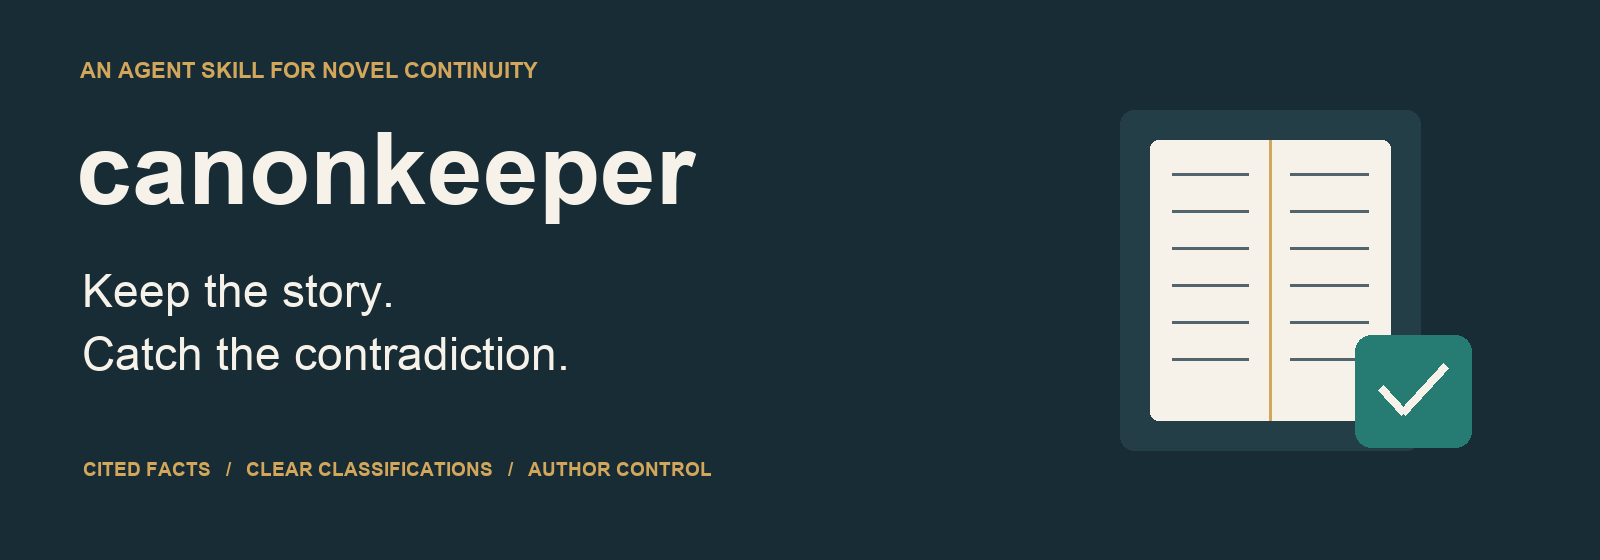
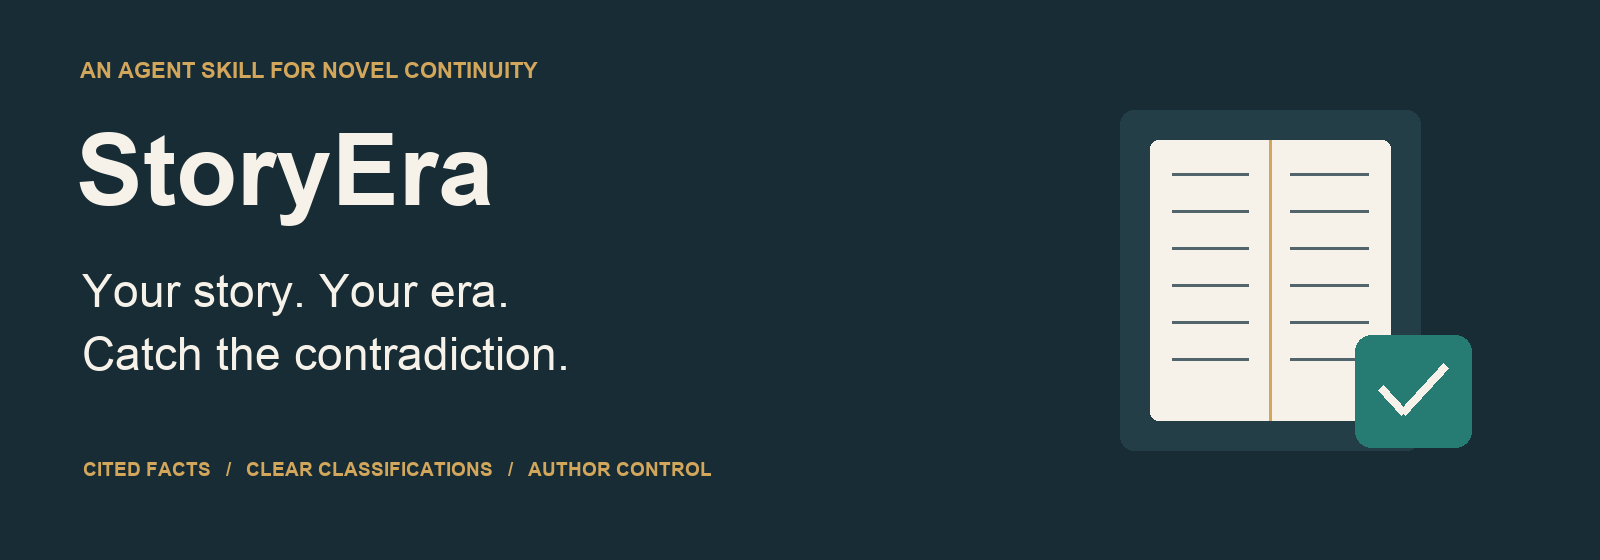
Rename Canonkeeper to StoryEra across skill and documentation
Preserve original behavioral evaluation records and document the installation migration.

Changed region(s): [[0.0312, 0.2125, 0.4375, 0.425], [0.0312, 0.4857, 0.3125, 0.5768]]

diff --git a/tests/test_reports.py b/tests/test_reports.py
@@ -112,15 +112,15 @@ class PackageTests(unittest.TestCase):
             self.assertEqual(a.read_bytes(),b.read_bytes())
             with zipfile.ZipFile(a) as archive:
                 names=archive.namelist()
-                self.assertIn('canonkeeper/SKILL.md',names); self.assertIn('canonkeeper/LICENSE',names)
-                self.assertTrue(all(n.startswith('canonkeeper/') for n in names))
+                self.assertIn('storyera/SKILL.md',names); self.assertIn('storyera/LICENSE',names)
+                self.assertTrue(all(n.startswith('storyera/') for n in names))
                 self.assertFalse(any('yakuza' in n or 'evals' in n for n in names))
     def test_skill_frontmatter_and_references(self):
-        text=(ROOT/'skills/canonkeeper/SKILL.md').read_text()
-        self.assertTrue(text.startswith('---\nname: canonkeeper\n')); self.assertNotIn('[TODO:',text)
+        text=(ROOT/'skills/storyera/SKILL.md').read_text()
+        self.assertTrue(text.startswith('---\nname: storyera\n')); self.assertNotIn('[TODO:',text)
         for target in re.findall(r'\]\((references/[^)]+)\)',text):
-            self.assertTrue((ROOT/'skills/canonkeeper'/target).is_file())
-        self.assertEqual((ROOT/'skills/canonkeeper/LICENSE').read_text().strip(),(ROOT/'LICENSE').read_text().split('Scope exception:')[0].strip())
+            self.assertTrue((ROOT/'skills/storyera'/target).is_file())
+        self.assertEqual((ROOT/'skills/storyera/LICENSE').read_text().strip(),(ROOT/'LICENSE').read_text().split('Scope exception:')[0].strip())
     def test_documentation_local_links(self):
         for path in ROOT.rglob('*.md'):
             text=re.sub(r'```.*?```','',path.read_text(),flags=re.S)

diff --git a/scripts/render_docs.py b/scripts/render_docs.py
@@ -44,10 +44,10 @@ class Canvas:
 
 
 def render():
-    c=Canvas('banner',560,'Canonkeeper: continuity notes with receipts',INK)
+    c=Canvas('banner',560,'StoryEra: continuity notes with receipts',INK)
     c.text(80,62,'AN AGENT SKILL FOR NOVEL CONTINUITY',22,GOLD,True)
-    c.text(76,132,'canonkeeper',100,PAPER,True)
-    c.text(82,274,'Keep the story.',46,PAPER)
+    c.text(76,132,'StoryEra',100,PAPER,True)
+    c.text(82,274,'Your story. Your era.',46,PAPER)
     c.text(82,336,'Catch the contradiction.',46,PAPER)
     c.text(83,462,'CITED FACTS   /   CLEAR CLASSIFICATIONS   /   AUTHOR CONTROL',19,GOLD,True)
     # A book and a connected ledger, drawn as original graphics.
@@ -69,7 +69,7 @@ def render():
         c.text(x+30,y+25,num,22,color,True); c.text(x+87,y+22,title,32,bold=True)
         c.text(x+30,y+82,a,26,MUTED);c.text(x+30,y+126,b,25,MUTED)
     c.save()
-    c=Canvas('workflow',470,'The Canonkeeper audit workflow')
+    c=Canvas('workflow',470,'The StoryEra audit workflow')
     c.text(65,42,'From chapter text to reviewable notes.',46,bold=True)
     data=[('01','Scope','Order + hashes'),('02','Read','Full passages'),('03','Ledger','Facts + citations'),('04','Reconcile','Later evidence'),('05','Report','Labels + repairs')]
     for i,(num,title,sub) in enumerate(data):

diff --git a/scripts/build_skill.py b/scripts/build_skill.py
@@ -8,7 +8,7 @@ ROOT = Path(__file__).resolve().parents[1]
 
 
 def build(output):
-    source = ROOT / "skills/canonkeeper"
+    source = ROOT / "skills/storyera"
     output = Path(output).resolve()
     if source.resolve() in output.parents:
         raise ValueError("Output must be outside the skill folder.")
@@ -22,7 +22,7 @@ def build(output):
         for path in files:
             if "__pycache__" in path.parts or path.name.startswith("."):
                 continue
-            info = zipfile.ZipInfo("canonkeeper/" + str(path.relative_to(source)), date_time=(2026, 10, 23, 0, 0, 0))
+            info = zipfile.ZipInfo("storyera/" + str(path.relative_to(source)), date_time=(2026, 10, 23, 0, 0, 0))
             info.compress_type = zipfile.ZIP_DEFLATED
             info.external_attr = 0o100644 << 16
             archive.writestr(info, path.read_bytes())

diff --git a/README.md b/README.md
@@ -1,6 +1,6 @@
-<p align="center"><img src="docs/assets/banner.png" alt="Canonkeeper — keep the story, catch the contradiction" width="1000"></p>
+<p align="center"><img src="docs/assets/banner.png" alt="StoryEra — your story, your era" width="1000"></p>
 
-# canonkeeper
+# StoryEra
 
 **Continuity notes with receipts.** An instruction-only Agent Skill for novels and series. Give your agent Markdown chapters; it builds a cited fact ledger, separates contradictions from mysteries and explained changes, and suggests repairs without editing your manuscript.
 
@@ -24,22 +24,22 @@ No MCP server, model SDK, API key, or web application is required by this packag
 Clone this repository, then copy the **whole** skill folder into your novel project. Replace the destination with your actual path. The subshell refuses an existing installation, including a dangling symlink.
 
 ```sh
-git clone https://github.com/kmsmohamedansar/canonkeeper.git
-cd canonkeeper
+git clone https://github.com/kmsmohamedansar/storyera.git
+cd storyera
 (
-  destination="/absolute/path/to/your-novel/.agents/skills/canonkeeper"
+  destination="/absolute/path/to/your-novel/.agents/skills/storyera"
   if [ -e "$destination" ] || [ -L "$destination" ]; then
     echo "An installation already exists; review it before updating." >&2
     exit 1
   fi
   mkdir -p "$(dirname "$destination")"
-  cp -R skills/canonkeeper "$destination"
+  cp -R skills/storyera "$destination"
 )
 ```
 
 Open the novel project in Codex and ask:
 
-> Use $canonkeeper to audit chapters/01.md through chapters/08.md in that order. Build a cited fact ledger. Separate contradictions, explained changes, intentional mysteries, and author questions. Suggest repairs without modifying the manuscript.
+> Use $storyera to audit chapters/01.md through chapters/08.md in that order. Build a cited fact ledger. Separate contradictions, explained changes, intentional mysteries, and author questions. Suggest repairs without modifying the manuscript.
 
 See [installation](docs/installation.md) for personal installation and discovery checks. Local paths follow [official OpenAI guidance](https://learn.chatgpt.com/docs/build-skills), checked October 23, 2026.
 
@@ -59,7 +59,7 @@ The [case study](docs/case-study.md) includes exact, source-numbered excerpts, r
 
 <img src="docs/assets/workflow.png" alt="Scope and preserve, read in order, build fact ledger, reconcile later evidence, classify and propose repairs" width="1000">
 
-The instructions live in [SKILL.md](skills/canonkeeper/SKILL.md). The [JSON contract](skills/canonkeeper/references/report-format.md) supports saved reports. Core instructions are provider-neutral; `agents/openai.yaml` adds optional Codex display metadata.
+The instructions live in [SKILL.md](skills/storyera/SKILL.md). The [JSON contract](skills/storyera/references/report-format.md) supports saved reports. Core instructions are provider-neutral; `agents/openai.yaml` adds optional Codex display metadata.
 
 ## Try the small fictional sample
 
@@ -77,7 +77,7 @@ The grader checks structure, quotes, line ranges, scope, and seeded classificati
 ## Repository map
 
 ```text
-skills/canonkeeper/       Copy this folder to install
+skills/storyera/       Copy this folder to install
 docs/                    Installation, usage, origin, case study, evaluation
 docs/assets/             Original PNG diagrams and SVG sources
 examples/manuscript/     Fictional regression manuscript (MIT)

diff --git a/docs/installation.md b/docs/installation.md
@@ -1,16 +1,16 @@
-# Install Canonkeeper
+# Install StoryEra
 
 ## One manuscript project
 
-Clone the repository and copy the entire `skills/canonkeeper/` folder into your novel project's `.agents/skills/`. The result should be `your-novel/.agents/skills/canonkeeper/SKILL.md`.
+Clone the repository and copy the entire `skills/storyera/` folder into your novel project's `.agents/skills/`. The result should be `your-novel/.agents/skills/storyera/SKILL.md`.
 
-Use the guarded command in the [README](../README.md#quick-start). Check existing installations before copying; avoid nesting `canonkeeper/canonkeeper/` or overwriting customizations. To update, compare folders and preserve your changes before deliberately replacing the skill.
+Use the guarded command in the [README](../README.md#quick-start). Check existing installations before copying; avoid nesting `storyera/storyera/` or overwriting customizations. To update, compare folders and preserve your changes before deliberately replacing the skill.
 
-Codex scans `.agents/skills/` from the working directory to the repository root. For personal use across projects, the documented user location is `~/.agents/skills/canonkeeper/`. Changes are normally detected automatically; restart if the skill does not appear. See [official OpenAI guidance](https://learn.chatgpt.com/docs/build-skills), checked October 23, 2026.
+Codex scans `.agents/skills/` from the working directory to the repository root. For personal use across projects, the documented user location is `~/.agents/skills/storyera/`. Changes are normally detected automatically; restart if the skill does not appear. See [official OpenAI guidance](https://learn.chatgpt.com/docs/build-skills), checked October 23, 2026.
 
 ## Verify discovery
 
-Open a new chat in the manuscript project and invoke `$canonkeeper`, or ask the agent to locate and read the installed `SKILL.md`. If it cannot find it, provide its actual path and check the directory structure. A successful copy alone does not prove the host loaded it.
+Open a new chat in the manuscript project and invoke `$storyera`, or ask the agent to locate and read the installed `SKILL.md`. If it cannot find it, provide its actual path and check the directory structure. A successful copy alone does not prove the host loaded it.
 
 The skill requires no Python environment or API key. Your agent host must be able to read the chapters under its own permissions and data settings.
 
@@ -23,3 +23,7 @@ The folder follows the [Agent Skills specification](https://agentskills.io/speci
 ## Remove
 
 Remove only the installation you created after checking its path. Keep manuscript files and audit reports. The package installs no background service, database or host configuration.
+
+## Upgrading from Canonkeeper
+
+The skill is now named `storyera`. If you installed `canonkeeper`, preserve any local customizations, remove that old skill folder deliberately, and install the complete `skills/storyera/` folder. Invoke `$storyera` afterward. Avoid keeping both installations active unless you intentionally want both versions. The GitHub repository is now [kmsmohamedansar/storyera](https://github.com/kmsmohamedansar/storyera).

diff --git a/docs/creation.md b/docs/creation.md
@@ -1,8 +1,8 @@
-# How Canonkeeper was created
+# How StoryEra was created
 
 ## The actual sequence
 
-1. The author supplied a README-style proposal for `canonkeeper`: an instruction-only continuity workflow with citations, classifications, manuscript preservation and offline evaluation. No installed `SKILL.md` or implementation was supplied in that exchange.
+1. The author supplied a README-style proposal for `canonkeeper` (the original name): an instruction-only continuity workflow with citations, classifications, manuscript preservation and offline evaluation. No installed `SKILL.md` or implementation was supplied in that exchange.
 2. The author supplied _YAKUZA: The Borrowed Life_, Volumes One–Three: a prologue and 53 chapters, approximately 75,600 words. The agent read it in sections, checked conflicts and later explanations, and returned an audit. Its before/after SHA-256 matched.
 3. That demonstration did **not** test an installed skill or grader and produced no measured accuracy score. The author then requested a repository, illustrations and documentation, and chose public visibility.
 4. This repository turns the workflow into an actual `SKILL.md`, references and optional Codex metadata. The agent performs the reading; the Python grader only evaluates saved output.
@@ -29,3 +29,7 @@ Define the outcome and task boundary. Write discriminating frontmatter, then the
 The structure follows the [Agent Skills specification](https://agentskills.io/specification). Discovery and optional Codex metadata follow [official OpenAI documentation](https://learn.chatgpt.com/docs/build-skills), checked October 23, 2026. The metadata was initialized with Codex's built-in skill-creator helper.
 
 No comprehensive literary benchmark, multi-model comparison, exhaustive novel-wide recall measurement, or independent expert adjudication is claimed. Tooling tests are not evidence of model reading ability. See the separate fictional-sample run status in [evaluation](evaluation.md).
+
+## Renamed to StoryEra
+
+The author chose **StoryEra** after the initial public release. The repository, installable folder and invocation are now `storyera` and `$storyera`. The saved October 23 behavioral reports and hash records remain unchanged under their original Canonkeeper name; renaming is not presented as a new behavioral evaluation. Git history preserves the original implementation.

diff --git a/docs/usage.md b/docs/usage.md
@@ -8,19 +8,19 @@ Supply Markdown chapters, reading order, and author canon. Distinguish drafting 
 
 ### First audit
 
-> Use $canonkeeper to audit chapters/01.md, chapters/02.md, and chapters/03.md in that order. Build a cited ledger. Separate contradictions, explained changes, intentional mysteries, and author questions. Include confidence and minimal repairs. Do not edit the manuscript. Verify its hashes before and after if tools are available.
+> Use $storyera to audit chapters/01.md, chapters/02.md, and chapters/03.md in that order. Build a cited ledger. Separate contradictions, explained changes, intentional mysteries, and author questions. Include confidence and minimal repairs. Do not edit the manuscript. Verify its hashes before and after if tools are available.
 
 ### Character knowledge
 
-> Use $canonkeeper to check who learned the secret, when, from whom, and who could plausibly know it. Cite evidence and distinguish narrator facts from character guesses. Do not edit the manuscript.
+> Use $storyera to check who learned the secret, when, from whom, and who could plausibly know it. Cite evidence and distinguish narrator facts from character guesses. Do not edit the manuscript.
 
 ### Whole novel in batches
 
-> Use $canonkeeper to audit this novel in chapter order. Choose batches appropriate to your context. Retain a cited ledger and open questions. Revisit apparent contradictions after reading later resolutions. Disclose unread sections. Do not modify the novel.
+> Use $storyera to audit this novel in chapter order. Choose batches appropriate to your context. Retain a cited ledger and open questions. Revisit apparent contradictions after reading later resolutions. Disclose unread sections. Do not modify the novel.
 
 ### JSON output
 
-> Use $canonkeeper with its references/report-format.md contract. Save a JSON audit outside the manuscript directory. Use paths relative to the supplied source root, exact quotes, and 1-based inclusive line ranges. Do not modify the manuscript.
+> Use $storyera with its references/report-format.md contract. Save a JSON audit outside the manuscript directory. Use paths relative to the supplied source root, exact quotes, and 1-based inclusive line ranges. Do not modify the manuscript.
 
 ### Author intent
 

diff --git a/docs/packaging.md b/docs/packaging.md
@@ -1,10 +1,10 @@
 # Packaging boundaries
 
-Distribute the complete `skills/canonkeeper/` folder: instructions, bundled MIT license, references, and optional Codex metadata. Copying only `SKILL.md` breaks its reference links.
+Distribute the complete `skills/storyera/` folder: instructions, bundled MIT license, references, and optional Codex metadata. Copying only `SKILL.md` breaks its reference links.
 
 This repository has no MCP server, model API integration, persistent canon database, hosted UI, marketplace listing or background task. A plugin manifest is omitted until a specific host's packaging workflow is implemented and verified.
 
-Run `python3 scripts/build_skill.py --output /tmp/canonkeeper.zip` for a deterministic folder ZIP rooted at `canonkeeper/`. It excludes novel excerpts, answer keys, general docs and development tools. This archive is not a promise that every host accepts ZIP uploads.
+Run `python3 scripts/build_skill.py --output /tmp/storyera.zip` for a deterministic folder ZIP rooted at `storyera/`. It excludes novel excerpts, answer keys, general docs and development tools. This archive is not a promise that every host accepts ZIP uploads.
 
 `scripts/render_docs.py` regenerates original SVG and PNG diagrams using Pillow and local fonts. These are explanatory illustrations, not screenshots or an invented app. Rendering is optional, not a skill or grader dependency.
 

diff --git a/evals/prompts.md b/evals/prompts.md
@@ -4,11 +4,11 @@ Start a fresh context with only the installed skill and the allowed manuscript f
 
 ## Full
 
-> Use $canonkeeper to audit examples/manuscript/01.md through examples/manuscript/04.md in that order. Return the JSON contract from references/report-format.md. Cover continuity issues and important reconciled or uncertain details. Save the report outside the manuscript directory. Do not modify the manuscript.
+> Use $storyera to audit examples/manuscript/01.md through examples/manuscript/04.md in that order. Return the JSON contract from references/report-format.md. Cover continuity issues and important reconciled or uncertain details. Save the report outside the manuscript directory. Do not modify the manuscript.
 
 ## Prefix
 
-> Use $canonkeeper to audit only examples/manuscript/01.md and examples/manuscript/02.md, in that order. Chapters 03 and 04 exist but must remain unread. Return the JSON contract, list the unread files, and save the report outside the manuscript directory. Do not modify the manuscript.
+> Use $storyera to audit only examples/manuscript/01.md and examples/manuscript/02.md, in that order. Chapters 03 and 04 exist but must remain unread. Return the JSON contract, list the unread files, and save the report outside the manuscript directory. Do not modify the manuscript.
 
 ## Manual rubric
 

diff --git a/docs/evaluation.md b/docs/evaluation.md
@@ -10,7 +10,7 @@
 
 ## Reproduce a blind run
 
-1. Start a fresh agent context. Supply only `skills/canonkeeper/` and the permitted chapters from `examples/manuscript/`.
+1. Start a fresh agent context. Supply only `skills/storyera/` and the permitted chapters from `examples/manuscript/`.
 2. Use the full or prefix prompt in [evals/prompts.md](../evals/prompts.md). For prefix testing, physically withhold Chapters 03 and 04, but name them as unread files.
 3. Record SHA-256 before the audit. Save the JSON report and independently recompute hashes afterward. Do not change the manuscript.
 4. Only after the report is saved, expose `evals/expected.json`, tests and earlier reports. Run the grader, then manually review reasoning and repair quality.

diff --git a/skills/storyera/SKILL.md b/skills/storyera/SKILL.md
@@ -1,12 +1,12 @@
 ---
-name: canonkeeper
+name: storyera
 description: Audit novels and series for continuity using a cited fact ledger. Use for chapter consistency, chronology, character knowledge, identities, objects, counts, and unresolved plot threads; distinguish contradictions from mysteries, explained changes, and author questions. Propose repairs without editing the manuscript.
 license: MIT
 metadata:
   version: "0.1.0"
 ---
 
-# Canonkeeper
+# StoryEra
 
 Audit the supplied story as written, preserving the author's control over canon and repairs.
 
